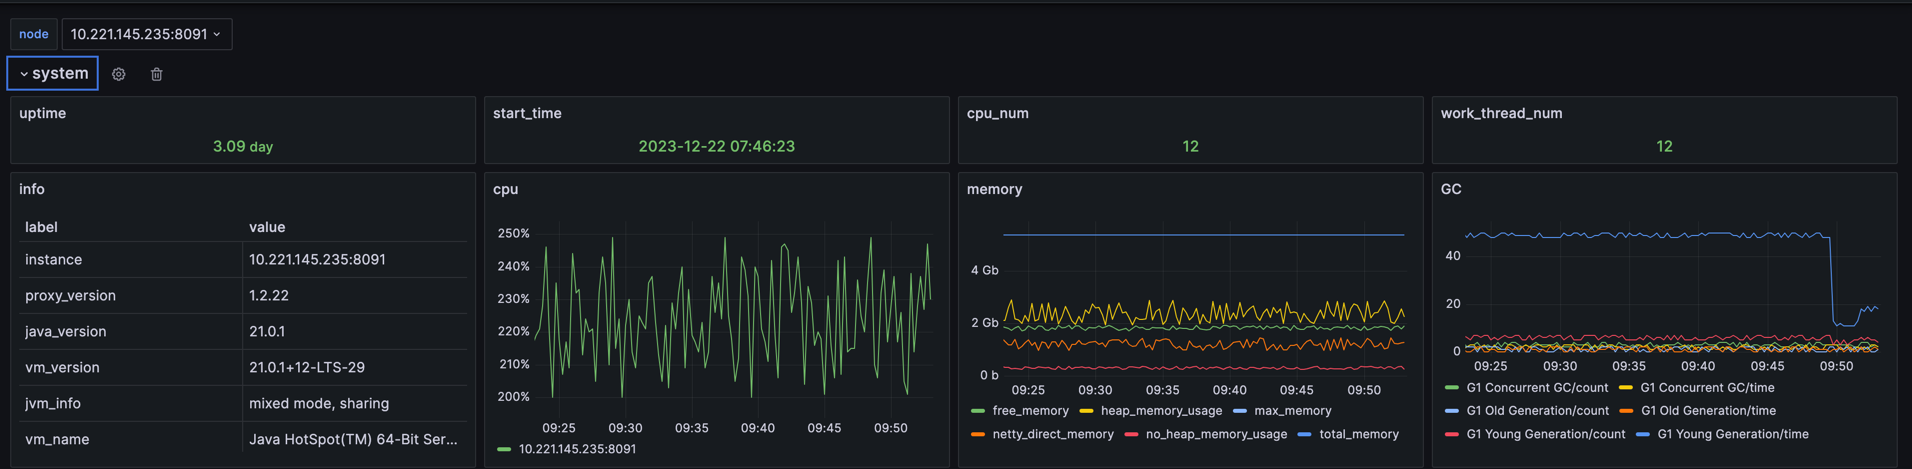
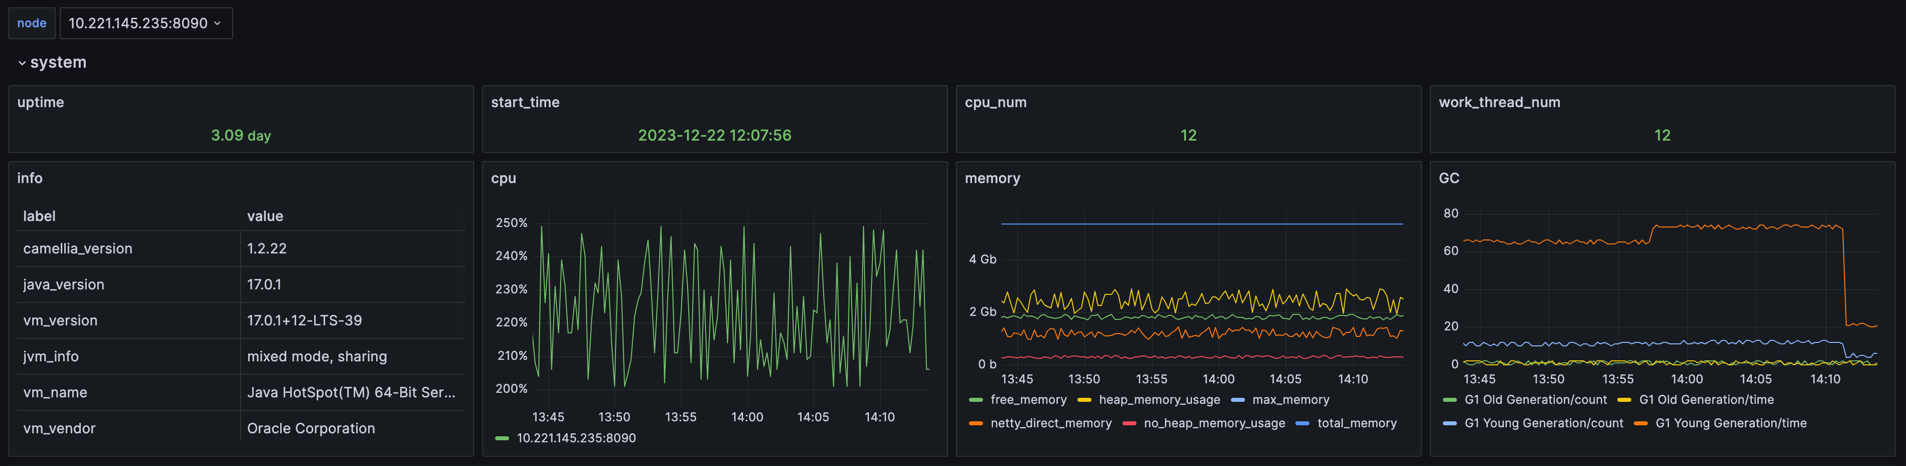
update prometheus/grafana doc (#183)

diff --git a/docs/redis-proxy/prometheus/prometheus-grafana.md b/docs/redis-proxy/prometheus/prometheus-grafana.md
@@ -62,6 +62,37 @@ you should:
 
 #### metrics
 ```
+# HELP proxy_info Redis Proxy Info
+# TYPE proxy_info gauge
+proxy_info{camellia_version="1.2.22",arch="x86_64",os_name="Mac OS X",os_version="14.1.2",system_load_average="4.59716796875",vm_vendor="Oracle Corporation",vm_name="Java HotSpot(TM) 64-Bit Server VM",vm_version="17.0.1+12-LTS-39",jvm_info="mixed mode, sharing",java_version="17.0.1",} 1
+# HELP uptime Redis Proxy Uptime
+# TYPE uptime gauge
+uptime 494556717
+# HELP start_time Redis Proxy Uptime
+# TYPE start_time gauge
+start_time 1702972469910
+# HELP memory_info Redis Proxy Memory
+# TYPE memory_info gauge
+memory_info{type="free_memory"} 1884673280
+memory_info{type="total_memory"} 5368709120
+memory_info{type="max_memory"} 5368709120
+memory_info{type="heap_memory_usage"} 1943755264
+memory_info{type="no_heap_memory_usage"} 271743648
+memory_info{type="netty_direct_memory"} 1168062208
+# HELP cpu Redis Proxy Cpu
+# TYPE cpu gauge
+cpu{type="cpu_num"} 12
+cpu{type="usage"} 213
+# HELP thread Redis Proxy Thread
+# TYPE thread gauge
+thread{type="boss_thread"} 1
+thread{type="work_thread"} 12
+# HELP gc Redis Proxy gc
+# TYPE gc gauge
+gc{name="G1 Young Generation", type="count"} 8
+gc{name="G1 Young Generation", type="time"} 33
+gc{name="G1 Old Generation", type="count"} 0
+gc{name="G1 Old Generation", type="time"} 0
 # HELP client_connect Redis Proxy Connect Count
 # TYPE client_connect gauge
 client_connect 71
@@ -161,37 +192,6 @@ tenant_command_spend_stats{tenant="2_default",command="expire",type="max"} 9.110
 tenant_command_spend_stats{tenant="2_default",command="expire",type="p50"} 0.116325
 tenant_command_spend_stats{tenant="2_default",command="expire",type="p90"} 0.191287
 tenant_command_spend_stats{tenant="2_default",command="expire",type="p99"} 0.240845
-# HELP proxy_info Redis Proxy Info
-# TYPE proxy_info gauge
-proxy_info{proxy_version="1.2.22",arch="x86_64",os_name="Mac OS X",os_version="14.1.2",system_load_average="4.59716796875",vm_vendor="Oracle Corporation",vm_name="Java HotSpot(TM) 64-Bit Server VM",vm_version="17.0.1+12-LTS-39",jvm_info="mixed mode, sharing",java_version="17.0.1",} 1
-# HELP uptime Redis Proxy Uptime
-# TYPE uptime gauge
-uptime 494556717
-# HELP start_time Redis Proxy Uptime
-# TYPE start_time gauge
-start_time 1702972469910
-# HELP memory_info Redis Proxy Memory
-# TYPE memory_info gauge
-memory_info{type="free_memory"} 1884673280
-memory_info{type="total_memory"} 5368709120
-memory_info{type="max_memory"} 5368709120
-memory_info{type="heap_memory_usage"} 1943755264
-memory_info{type="no_heap_memory_usage"} 271743648
-memory_info{type="netty_direct_memory"} 1168062208
-# HELP cpu Redis Proxy Cpu
-# TYPE cpu gauge
-cpu{type="cpu_num"} 12
-cpu{type="usage"} 213
-# HELP thread Redis Proxy Thread
-# TYPE thread gauge
-thread{type="boss_thread"} 1
-thread{type="work_thread"} 12
-# HELP gc Redis Proxy gc
-# TYPE gc gauge
-gc{name="G1 Young Generation", type="count"} 8
-gc{name="G1 Young Generation", type="time"} 33
-gc{name="G1 Old Generation", type="count"} 0
-gc{name="G1 Old Generation", type="time"} 0
 # HELP upstream_redis_connect Redis Proxy Upstream Redis Connect Count
 # TYPE upstream_redis_connect gauge
 upstream_redis_connect 140

diff --git a/docs/redis-proxy/other/proxy_command.md b/docs/redis-proxy/other/proxy_command.md
@@ -7,7 +7,7 @@ PROXY命令用于查询和操作proxy本身的一些配置
 示例： 
 ```shell
 127.0.0.1:6380> proxy info
-version:v1.2.21
+camellia_version:v1.2.21
 upstream_client_template_factory:UpstreamRedisClientTemplateFactory
 transpond_config:{"type":"local","multiTenantsSupport":false}
 client_auth_provider:ClientAuthByConfigProvider
